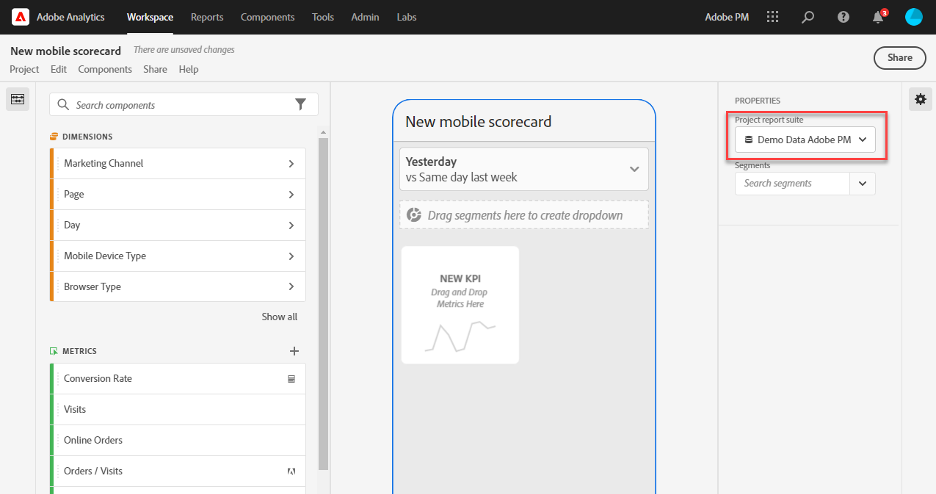
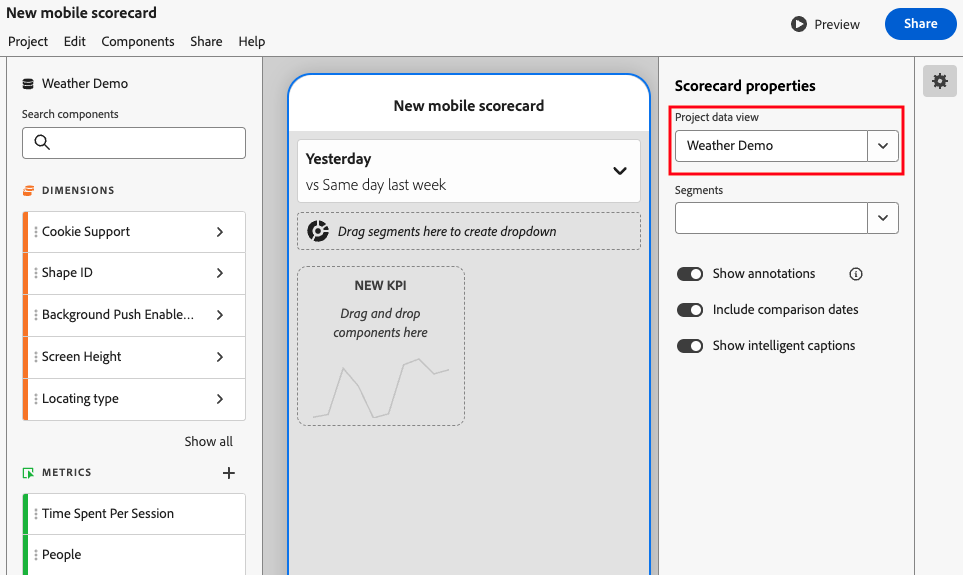
filter>segment

Changed region(s): [[0.0, 0.0, 1.0, 1.0]]

diff --git a/help/mobile-app/create-scorecard.md b/help/mobile-app/create-scorecard.md
@@ -42,7 +42,7 @@ As a curator of this scorecard, you can use the scorecard builder to configure w
 
 To create the scorecard, you need to do the following:
 
-1. Access the [!UICONTROL Blank Mobile Scorecard] template.
+1. Access the [!UICONTROL Blank mobile scorecard] template in Workspace.
 2. Configure the scorecard with data and save it.
 
 ## Access the [!UICONTROL Blank Mobile Scorecard] template {#template}
@@ -52,6 +52,7 @@ You can access the [!UICONTROL Blank Mobile Scorecard] template either by creati
 ### Create a new project {#create}
 
 1. Open Customer Journey Analytics and click the **[!UICONTROL Workspace]** tab.
+1. In the left rail, click **[!UICONTROL Projects]**.
 1. Click **[!UICONTROL Create project]** and select the **[!UICONTROL Blank mobile scorecard]** project template.
 1. Click **[!UICONTROL Create]**.
 
@@ -66,7 +67,7 @@ You can access the [!UICONTROL Blank Mobile Scorecard] template either by creati
 
 To implement the scorecard template:
 
-1. Under **[!UICONTROL Properties]** (in the right-hand rail), specify a **[!UICONTROL Project data view]** from which you want to use data.
+1. Under **[!UICONTROL Scorecard properties]** (in the right-hand rail), specify a **[!UICONTROL Project data view]** from which you want to use data.
 
     ![New mobile scorecard window highlighting the data view selection](assets/properties_save.png)
 
